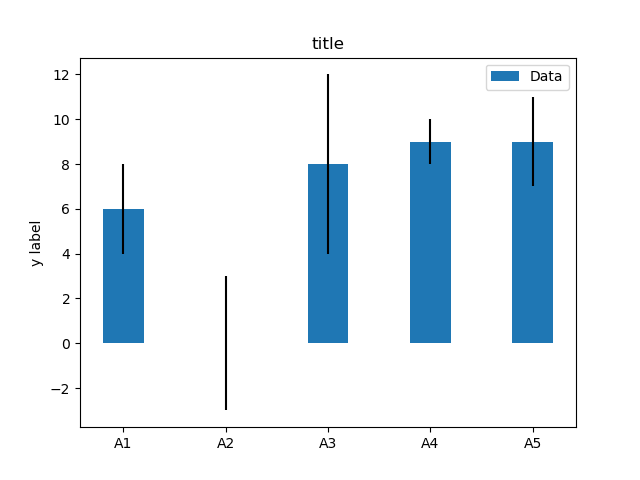
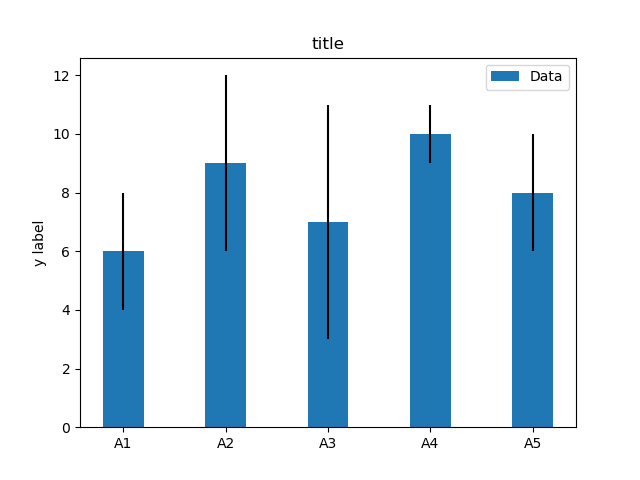
first commit

diff --git a/example.py b/example.py
@@ -2,7 +2,7 @@ import numpy as np
 import matplotlib.pyplot as plt
 
 labels = ['A1', 'A2', 'A3', 'A4', 'A5']
-m_means = [6,0,8,9,9]
+m_means = [6,9,7,10,8]
 m_std = [2, 3, 4, 1, 2]
 width = 0.40       # the width of the bars
 

diff --git a/README.md b/README.md
@@ -1,4 +1,4 @@
-# Matplotlib no 17 
+# Matplotlib no 18 
 
 python example
 
